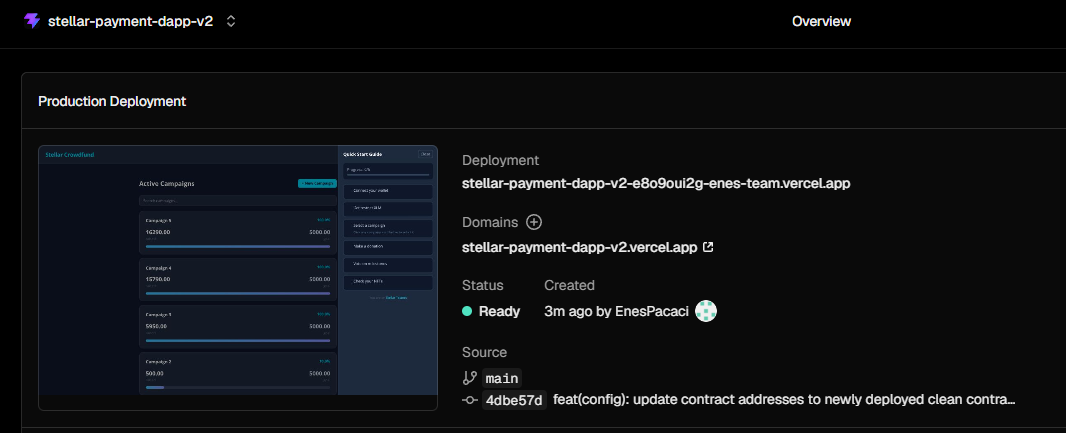
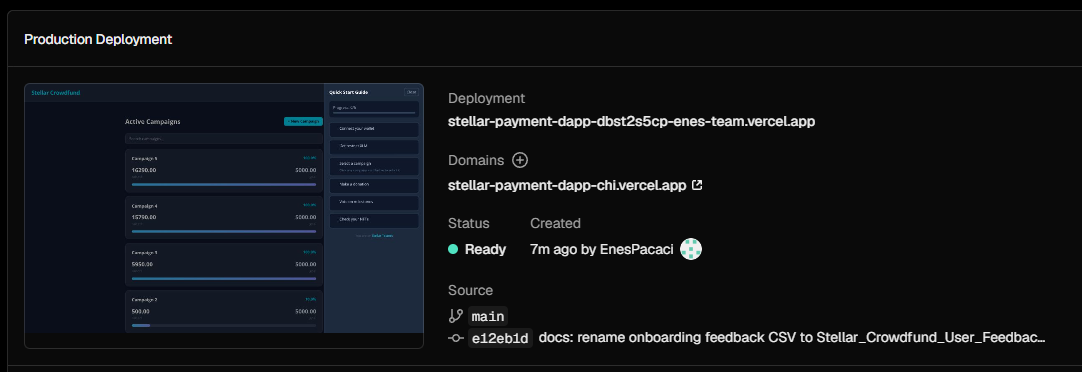
docs: update vercel links to match v1 domain and add updated screenshots

diff --git a/PLAN.md b/PLAN.md
@@ -9,7 +9,7 @@
 | **Yan Program** | Vibe Coding 30 (Level 4 teslim edildi ✅) |
 | **Canlı (Vibe Coding)** | https://stellar-payment-dapp-chi.vercel.app |
 | **Yeni Repo (Level 5+)** | https://github.com/EnesPacaci/stellar-payment-dapp-v2 |
-| **Canlı (Level 5+)** | https://stellar-payment-dapp-v2.vercel.app |
+| **Canlı (Level 5+)** | https://stellar-payment-dapp-chi.vercel.app |
 | **Demo Video (L4)** | https://youtu.be/XsBphLXYVqg |
 | **Eski Repo (Vibe Coding)** | https://github.com/EnesPacaci/stellar-payment-dapp |
 
@@ -77,7 +77,7 @@ RiseIn gereksinimlerine %100 odaklanılacak. Idea Submission'da planlanan SEP-24
 #### A. Kod & Deployment (Zaten Tamam ✅)
 - [x] Public GitHub repo (stellar-payment-dapp-v2)
 - [x] 49 commit (20+ şartı fazlasıyla karşılanıyor)
-- [x] Live deployed app (https://stellar-payment-dapp-v2.vercel.app)
+- [x] Live deployed app (https://stellar-payment-dapp-chi.vercel.app)
 
 #### B. Ürün İyileştirmeleri (Mevcut L4 Feedback'lerine Göre)
 ##### 1. UX/UI Geliştirmeleri (Arayüz Kalitesi)

diff --git a/README.md b/README.md
@@ -4,11 +4,11 @@ A decentralized crowdfunding application built on the Stellar testnet using Soro
 
 ## Live Demo
 
-[View Live App](https://stellar-payment-dapp-v2.vercel.app)
+[View Live App](https://stellar-payment-dapp-chi.vercel.app)
 
 ## Pitch Deck (Interactive Web Presentation)
 
-[View Pitch Deck Presentation](https://stellar-payment-dapp-v2.vercel.app/pitch-deck.html) (Natively developed by Enes Paçacı)
+[View Pitch Deck Presentation](https://stellar-payment-dapp-chi.vercel.app/pitch-deck.html) (Natively developed by Enes Paçacı)
 
 ## Demo Video
 
